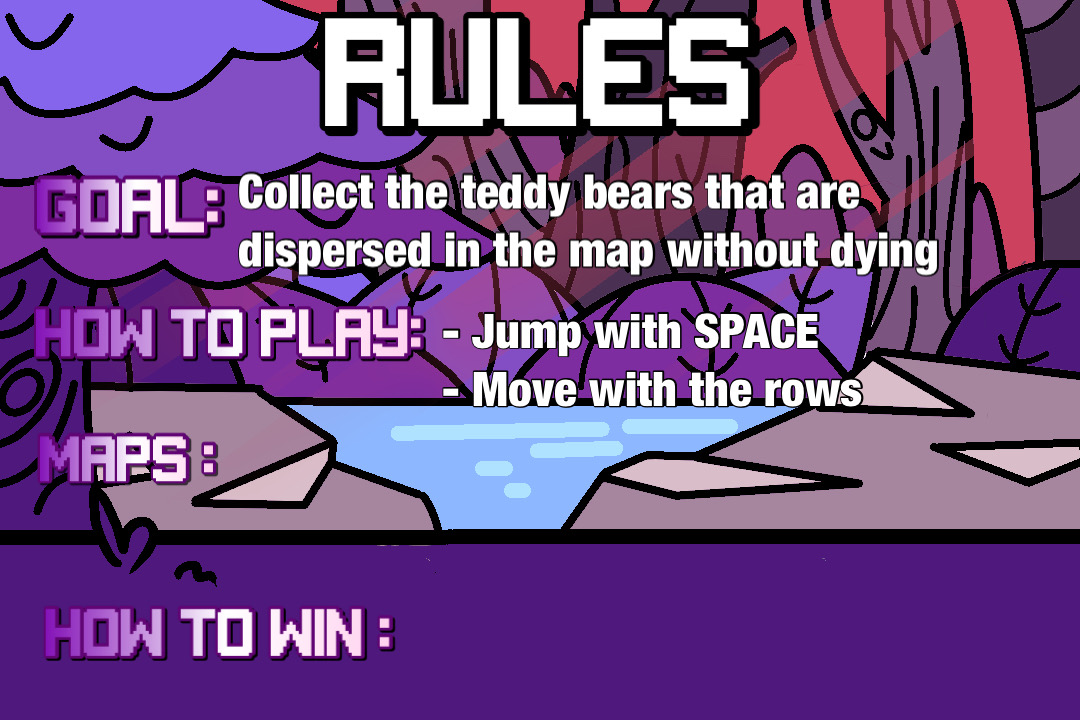
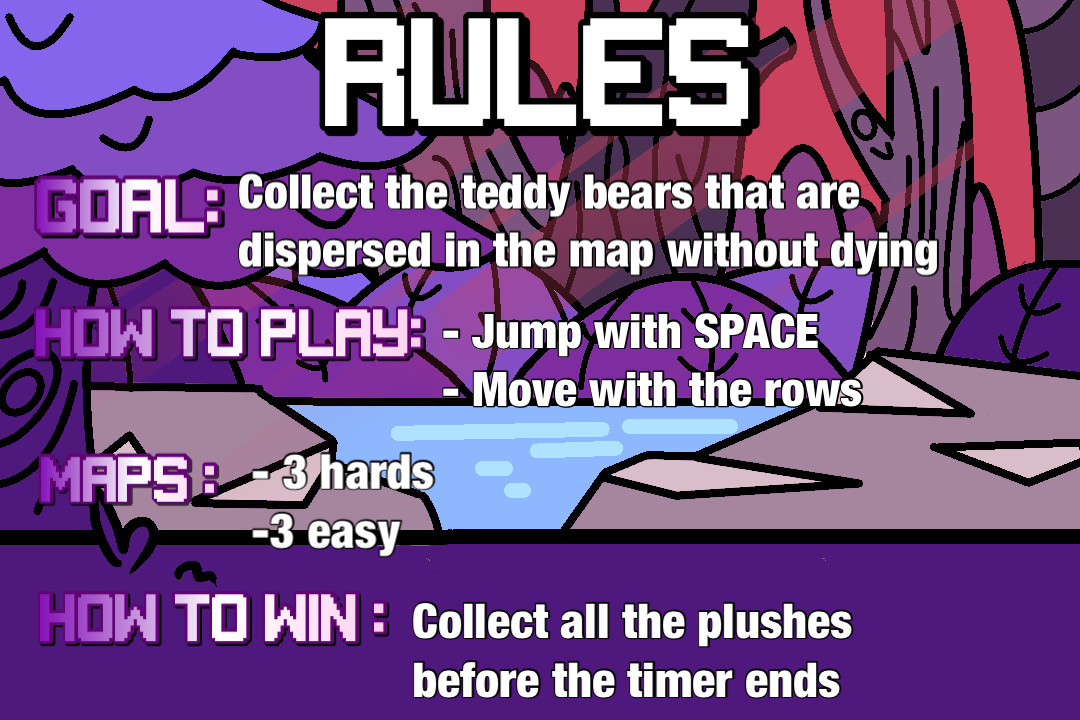
Fixed the problem with the Return button activated when playing + changed the Rules.png image

Changed region(s): [[0.0306, 0.825, 0.7944, 0.9778], [0.0306, 0.5806, 0.4278, 0.7944]]

diff --git a/main.py b/main.py
@@ -10,7 +10,6 @@ import random
 from animations import *
 import time
 
-
 '''INIT -------------------------------------------- '''
 pygame.init()
 pygame.mixer.pre_init(44100, -16, 2, 512)
@@ -36,14 +35,13 @@ pygame.mixer.music.load('assets/Music/Game_menu_music.mp3')
 # 5000 : nbr of ms per delay
 pygame.mixer.music.play(-1, 0.0, 5000)
 
-
-
 # load our game
 game = Game()
 paused = False
 
+
 # This is the part which allows us to handle the animations
-def draw_game(difficulty, level_number,surface):
+def draw_game(difficulty, level_number, surface):
     global last_side_that_the_user_went
     global stepIndex
 
@@ -59,14 +57,14 @@ def draw_game(difficulty, level_number,surface):
 
     # If player goes right, we go through the right list walking frames
     elif game.joueur.IsmovingRight:
-        surface.blit(right[stepIndex], (game.joueur.yoke_rect.x, game.joueur.yoke_rect.y ))
+        surface.blit(right[stepIndex], (game.joueur.yoke_rect.x, game.joueur.yoke_rect.y))
         stepIndex += 1
         last_side_that_the_user_went = "right"
         time.sleep(0.01)
 
     # If player goes right, we go through the left list walking frames
     elif game.joueur.IsmovingLeft:
-        surface.blit(left[stepIndex], (game.joueur.yoke_rect.x, game.joueur.yoke_rect.y ))
+        surface.blit(left[stepIndex], (game.joueur.yoke_rect.x, game.joueur.yoke_rect.y))
         stepIndex += 1
         last_side_that_the_user_went = "left"
         time.sleep(0.01)
@@ -75,12 +73,11 @@ def draw_game(difficulty, level_number,surface):
     else:
 
         if last_side_that_the_user_went == "right":
-            surface.blit(right_rest[stepIndex], (game.joueur.yoke_rect.x,game.joueur.yoke_rect.y ))
+            surface.blit(right_rest[stepIndex], (game.joueur.yoke_rect.x, game.joueur.yoke_rect.y))
             stepIndex += 1
             time.sleep(0.08)
         else:
-            surface.blit(right_rest[stepIndex], (game.joueur.yoke_rect.x, game.joueur.yoke_rect.y ))
-
+            surface.blit(right_rest[stepIndex], (game.joueur.yoke_rect.x, game.joueur.yoke_rect.y))
 
 
 def game_loop(main_menu):
@@ -103,6 +100,7 @@ def game_loop(main_menu):
 
     return main_menu
 
+
 while running:
 
     screen.blit(settings.side_left_bg_starter_menu, (0, 0))
@@ -112,63 +110,72 @@ while running:
         screen.blit(settings.side_right_bg_starter_menu, (500, 0))
         screen.blit(settings.game_logo, (340, 50))
 
-        if settings.start_button.draw(screen) and game.menu.credits_menu == False and game.menu.exit_menu == False and game.menu.rules_menu == False:
+        if settings.start_button.draw(
+                screen) and game.menu.credits_menu == False and game.menu.exit_menu == False and game.menu.rules_menu == False and game.menu.return_menu == False:
             game.menu.difficulty_menu = True
+            game.menu.return_menu = True
             game.menu.should_starter_menu_appear = False
 
-        if settings.rules_button.draw(screen) and game.menu.should_starter_menu_appear == True and game.menu.credits_menu == False and game.menu.exit_menu == False:
+        if settings.rules_button.draw(
+                screen) and game.menu.should_starter_menu_appear == True and game.menu.credits_menu == False and game.menu.exit_menu == False and game.menu.return_menu == False:
             game.menu.rules_menu = True
+            game.menu.return_menu = True
             game.menu.main_menu = True
 
-        if settings.credits_button.draw(screen) and game.menu.should_starter_menu_appear == True and game.menu.rules_menu == False and game.menu.exit_menu == False:
+        if settings.credits_button.draw(
+                screen) and game.menu.should_starter_menu_appear == True and game.menu.rules_menu == False and game.menu.exit_menu == False and game.menu.return_menu == False :
             game.menu.credits_menu = True
             game.menu.main_menu = True
+            game.menu.return_menu = True
 
-        if settings.exit_button.draw(screen) and game.menu.should_starter_menu_appear == True and game.menu.credits_menu == False and game.menu.rules_menu == False:
+        if settings.exit_button.draw(
+                screen) and game.menu.should_starter_menu_appear == True and game.menu.credits_menu == False and game.menu.rules_menu == False and game.menu.return_menu == False:
             game.menu.exit_menu = True
 
     if game.menu.difficulty_menu:
         screen.blit(settings.side_left_bg_starter_menu, (0, 0))
         screen.blit(settings.side_right_bg_starter_menu, (500, 0))
-        settings.return_button.draw(screen)
         if settings.hard_game_difficulty_button.draw(screen):
             game.menu.level_difficulty = "Hard"
             level_choice_number = random.randint(0, 2)
             game.menu.main_menu = False
+            game.menu.return_menu = False
         if settings.easy_game_difficulty_button.draw(screen):
             level_choice_number = random.randint(0, 2)
             game.menu.level_difficulty = 'Easy'
             game.menu.main_menu = False
-        if settings.return_button.draw(screen):
+            game.menu.return_menu = False
+        if settings.return_button.draw(screen) and game.menu.return_menu == True:
             game.menu.difficulty_menu = False
+            game.menu.return_menu = False
             game.menu.main_menu = True
             game.menu.should_starter_menu_appear = True
 
     if game.menu.rules_menu:
         screen.blit(settings.rules_menu_image, (0, 0))
-        settings.return_button.draw(screen)
-        if settings.return_button.draw(screen):
+        if settings.return_button.draw(screen) and game.menu.return_menu == True:
             game.menu.rules_menu = False
             game.menu.main_menu = True
+            game.menu.return_menu = False
             game.menu.should_starter_menu_appear = True
 
     if game.menu.credits_menu:
         screen.blit(settings.rules_menu_image, (0, 0))
-        settings.return_button.draw(screen)
-        if settings.return_button.draw(screen):
+        if settings.return_button.draw(screen) and game.menu.return_menu == True:
             game.menu.credits_menu = False
             game.menu.main_menu = True
+            game.menu.return_menu = False
             game.menu.should_starter_menu_appear = True
 
     if game.menu.exit_menu:
         quit()
 
-    if not game.menu.main_menu:
+    if not game.menu.main_menu and game.menu.return_menu == False:
         pygame.mixer.music.stop()
         level_data = game.carte.load_tmx_data()
         delta_time = pygame.time.Clock().tick(60) * 0.001 * 60
 
-        draw_game(game.menu.level_difficulty, level_choice_number,screen)
+        draw_game(game.menu.level_difficulty, level_choice_number, screen)
         game.menu.main_menu = game_loop(game.menu.main_menu)
 
         # update our screen
@@ -182,9 +189,9 @@ while running:
         elif event.type == pygame.KEYDOWN:
             game.pressed[event.key] = True
             if (
-                event.key == pygame.K_p
-                and game.menu.main_menu == False
-                and not paused
+                    event.key == pygame.K_p
+                    and game.menu.main_menu == False
+                    and not paused
             ):
                 paused = True
                 paused = functions.pause_function(paused)

diff --git a/settings.py b/settings.py
@@ -39,7 +39,7 @@ rules_image_button = pygame.transform.scale(rules_image_button, (305, 100))
 exit_image_button = pygame.image.load('assets/menu/Quit_Button.png')
 exit_image_button = pygame.transform.scale(exit_image_button, (305, 100))
 return_back_button = pygame.image.load('assets/menu/Return_button.png')
-return_back_button = pygame.transform.scale(return_back_button, (305, 100))
+return_back_button = pygame.transform.scale(return_back_button, (150, 80))
 credits_image_button = pygame.image.load('assets/menu/Credit_Button.png')
 credits_image_button = pygame.transform.scale(credits_image_button, (305, 100))
 
@@ -55,7 +55,7 @@ start_button = Button(400, 278, start_image_button)
 rules_button = Button(400, 378, rules_image_button)
 credits_button = Button(400, 478, credits_image_button)
 exit_button = Button(400, 578, exit_image_button)
-return_button = Button(778, 600, return_back_button)
+return_button = Button(878, 600, return_back_button)
 
 hard_game_difficulty_button = Button(650, 278, hard_difficulty_button)
 easy_game_difficulty_button = Button(50, 278, easy_difficulty_button)

diff --git a/menu.py b/menu.py
@@ -9,6 +9,7 @@ class Menu:
         self.credits_menu = False
         self.difficulty_menu = False
         self.exit_menu = False
+        self.return_menu = False
         self.should_starter_menu_appear = True
         self.level_difficulty = "Nothing"
 
